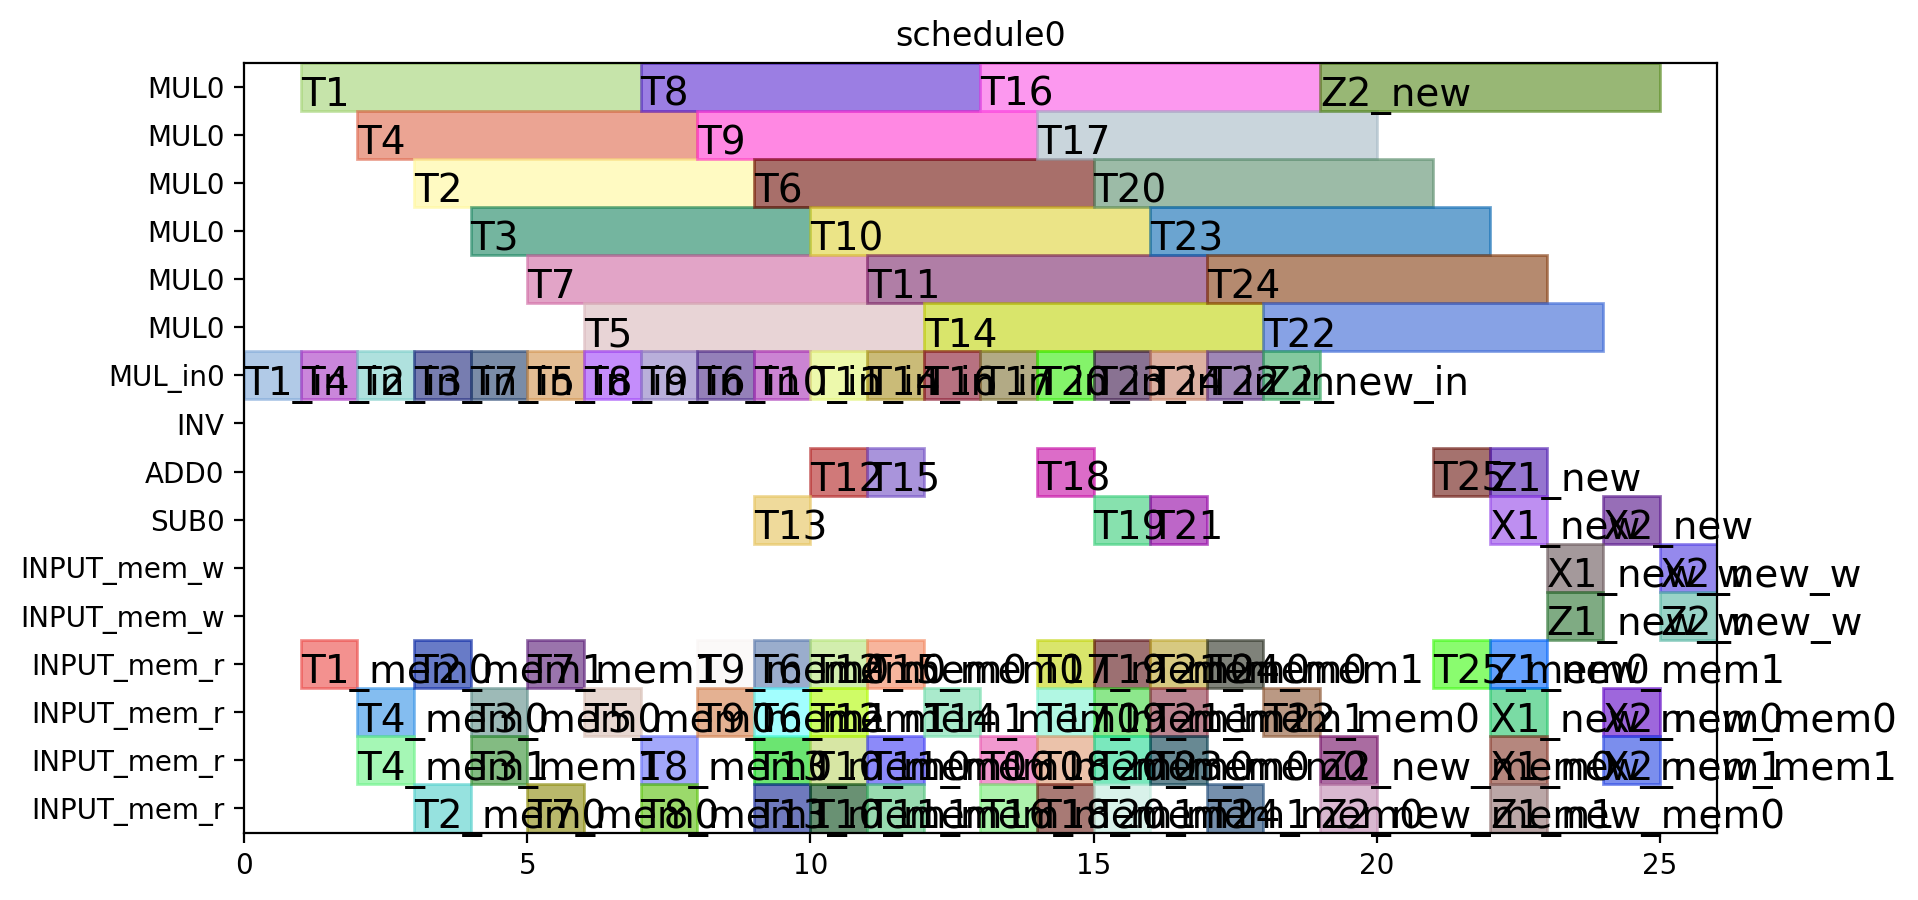
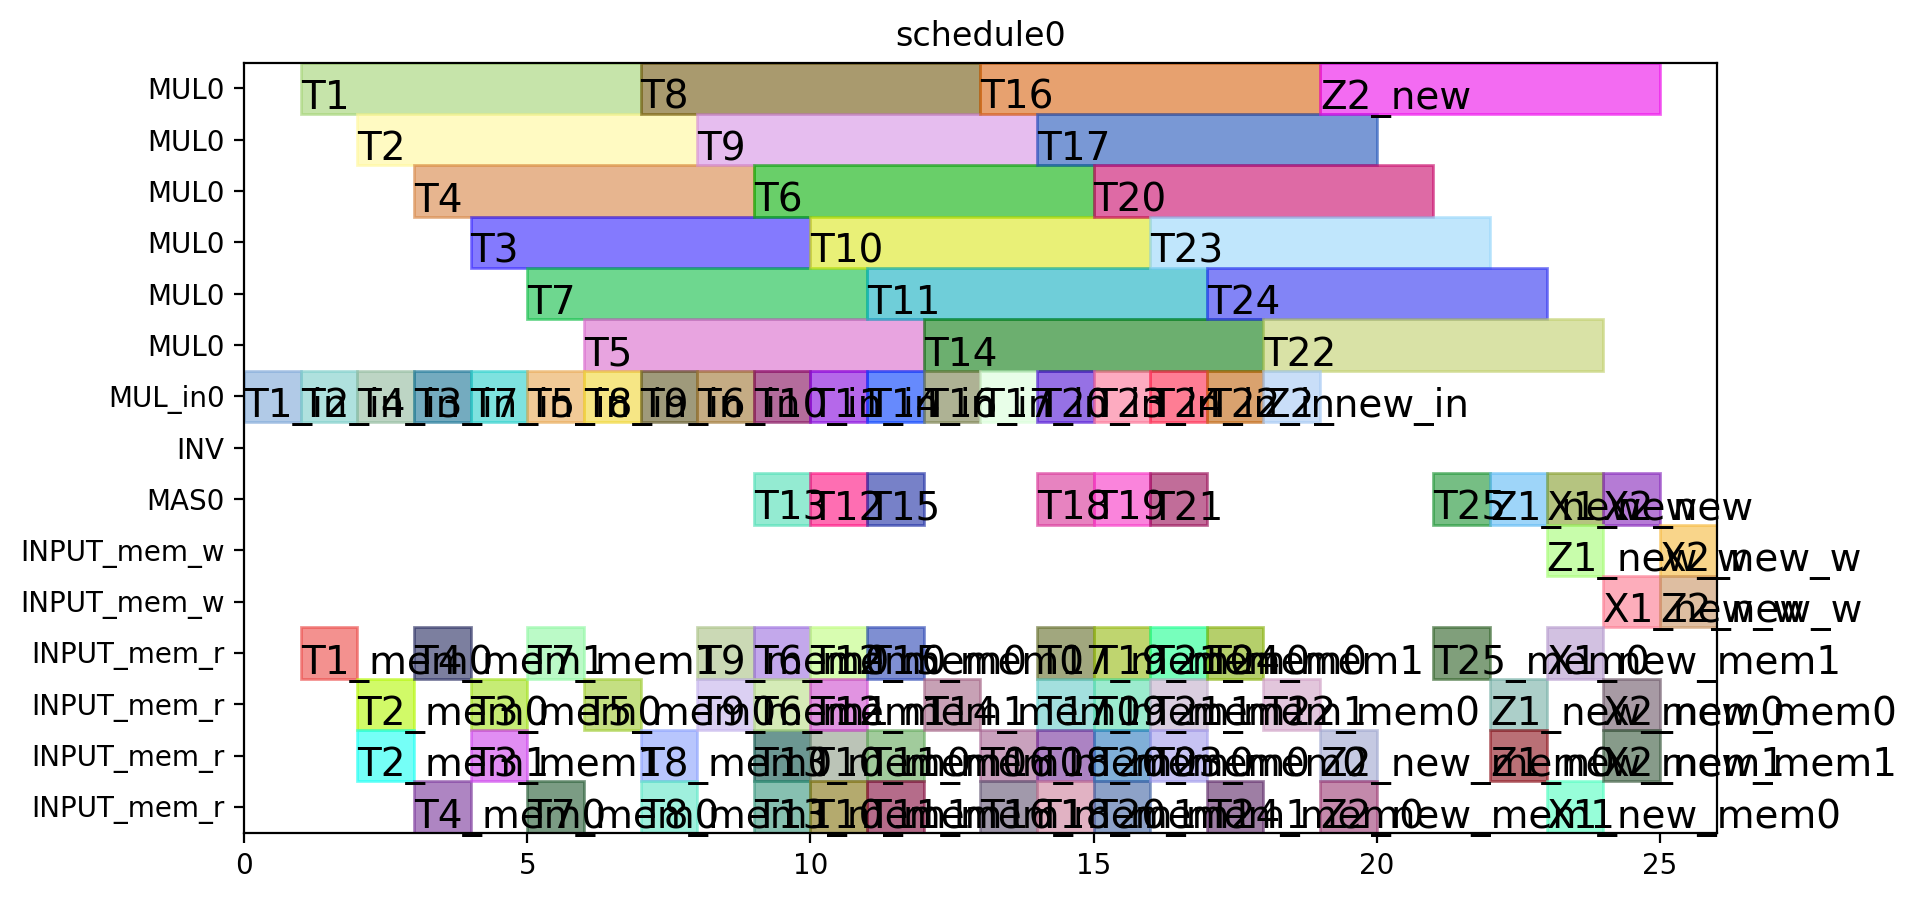
change ADD/SUB to MAS

diff --git a/python/write_sequence.py b/python/write_sequence.py
@@ -4,7 +4,7 @@ import sys
 import argparse
 import traceback
 import csv
-from inst_lib import ALURAMIndex, ALUInstruction, new_inst, set_init_inst, set_Fpinv_preprocess_inst, set_Fpinv_inst, set_yrecover2_inst, write_header, write_raminit_aluram, write_raminit_cmdaddr
+from inst_lib import solutionData, ALURAMIndex, ALUInstruction, new_inst, set_init_inst, set_Fpinv_preprocess_inst, set_Fpinv_inst, set_yrecover2_inst, write_header, write_raminit_aluram, write_raminit_cmdaddr
 
 
 def value2num(value):
@@ -15,14 +15,6 @@ def value2num(value):
     else:
         raise Exception("the length of value: {0} is {1}".format(value, len(value)))
     return num
-
-class solutionData:
-    def __init__(self, opr1, opr2, operator, start, end) -> None:
-        self.opr1 = opr1
-        self.opr2 = opr2
-        self.operator = operator
-        self.start = start
-        self.end = end
 
 
 # cが10clk目で出力 -> アドレス2に保存 -> 15clk目でオペランドとして最後に呼び出される場合，
@@ -99,7 +91,7 @@ class schedulingData:
             if "_mem" not in value_name:
                 formula = self.find_formula(value_name)
                 self.solution_data_list[value_name] = solutionData(
-                    opr1=formula[2], opr2=formula[3], operator=operator_name, start=start_time, end=end_time)
+                    opr1=formula[2], opr2=formula[3], operator=operator_name, operation=formula[1], start=start_time, end=end_time)
                 # print("{}, {}".format(value_name, start_time))
 
         self.operator_init_seq = [[] for i in range(self.seq_finish_time + 1)]
@@ -149,14 +141,14 @@ class schedulingData:
                 self.mem_addr_list.append(end_time)
             # print(self.mem_addr_list)
 
-    def set_operator_inst(self, data: solutionData, value_name):
+    def set_operator_inst(self, data: solutionData):
         for i in range(2):
             operand_name = data.opr1 if i == 0 else data.opr2
             time = data.start
             if operand_name in self.input:
                 # print(time, value_name, operand_name, self.const_addr_list[operand_name])
                 self.inst_list[time].set_operator_inst(
-                    operator=data.operator,
+                    operation=data.operation,
                     operand_index=i,
                     raddr=self.const_addr_list[operand_name],
                     mux=0,
@@ -166,17 +158,17 @@ class schedulingData:
             if time > operand_data.end:
                 ram_addr = self.mem_data_list[operand_name].addr
                 # print(time, value_name, operand_name, ram_addr)
-                self.inst_list[time].set_operator_inst(operator=data.operator, operand_index=i, raddr=ram_addr, mux=0, mask=self.is_ladder)
+                self.inst_list[time].set_operator_inst(operation=data.operation, operand_index=i, raddr=ram_addr, mux=0, mask=self.is_ladder)
                 continue
             operand_operator = operand_data.operator
             # print(time, value_name, operand_name, operand_operator)
             if "MUL" in operand_operator:
-                self.inst_list[time].set_operator_inst(operator=data.operator, operand_index=i, raddr=0, mux=1, mask=self.is_ladder)
-            elif "ADD" in operand_operator or "SUB" in operand_operator:
-                self.inst_list[time].set_operator_inst(operator=data.operator, operand_index=i, raddr=0, mux=2, mask=self.is_ladder)
+                self.inst_list[time].set_operator_inst(operation=data.operation, operand_index=i, raddr=0, mux=1, mask=self.is_ladder)
+            elif "MAS" in operand_operator:
+                self.inst_list[time].set_operator_inst(operation=data.operation, operand_index=i, raddr=0, mux=2, mask=self.is_ladder)
             elif "INV" in operand_operator:
                 # TODO: fix
-                self.inst_list[time].set_operator_inst(operator=data.operator, operand_index=i, raddr=0, mux=3, mask=self.is_ladder)
+                self.inst_list[time].set_operator_inst(operation=data.operation, operand_index=i, raddr=0, mux=3, mask=self.is_ladder)
             else:
                 raise Exception("invalid operator: {}".format(operand_operator))
 
@@ -185,7 +177,7 @@ class schedulingData:
         for value_name, data in self.solution_data_list.items():
             if value_name in self.input:
                 continue
-            self.set_operator_inst(data, value_name)
+            self.set_operator_inst(data)
 
     def ram_result_input(self):
         for out in self.output:

diff --git a/python/scheduling/ladderMul_mul1_6_add1_1/schedule0.py b/python/scheduling/ladderMul_mul1_6_add1_1/schedule0.py
@@ -9,8 +9,7 @@ def solve():
 	MUL = S.Resources('MUL', num=1, size=6)
 	MUL_in = S.Resources('MUL_in', num=1)
 	INV = S.Resource('INV')
-	ADD = S.Resources('ADD', num=1, periods=range(1, horizon))
-	SUB = S.Resources('SUB', num=1, periods=range(1, horizon))
+	MAS = S.Resources('MAS', num=1, periods=range(1, horizon))
 	INPUT_mem_w = S.Resource('INPUT_mem_w', size=2)
 	INPUT_mem_r = S.Resource('INPUT_mem_r', size=4)
 
@@ -168,7 +167,7 @@ def solve():
 	S += T11_mem1-1 <= T11
 
 	T12 = S.Task('T12', length=1, delay_cost=1)
-	T12 += alt(ADD)
+	T12 += alt(MAS)
 
 	T12_mem0 = S.Task('T12_mem0', length=1, delay_cost=1)
 	T12_mem0 += alt(INPUT_mem_r)
@@ -181,7 +180,7 @@ def solve():
 	S += T12_mem1-1 <= T12
 
 	T13 = S.Task('T13', length=1, delay_cost=1)
-	T13 += alt(SUB)
+	T13 += alt(MAS)
 
 	T13_mem0 = S.Task('T13_mem0', length=1, delay_cost=1)
 	T13_mem0 += alt(INPUT_mem_r)
@@ -194,7 +193,7 @@ def solve():
 	S += T13_mem1-1 <= T13
 
 	T15 = S.Task('T15', length=1, delay_cost=1)
-	T15 += alt(ADD)
+	T15 += alt(MAS)
 
 	T15_mem0 = S.Task('T15_mem0', length=1, delay_cost=1)
 	T15_mem0 += alt(INPUT_mem_r)
@@ -245,7 +244,7 @@ def solve():
 	S += T17_mem1-1 <= T17
 
 	T18 = S.Task('T18', length=1, delay_cost=1)
-	T18 += alt(ADD)
+	T18 += alt(MAS)
 
 	T18_mem0 = S.Task('T18_mem0', length=1, delay_cost=1)
 	T18_mem0 += alt(INPUT_mem_r)
@@ -258,7 +257,7 @@ def solve():
 	S += T18_mem1-1 <= T18
 
 	T19 = S.Task('T19', length=1, delay_cost=1)
-	T19 += alt(SUB)
+	T19 += alt(MAS)
 
 	T19_mem0 = S.Task('T19_mem0', length=1, delay_cost=1)
 	T19_mem0 += alt(INPUT_mem_r)
@@ -271,7 +270,7 @@ def solve():
 	S += T19_mem1-1 <= T19
 
 	T21 = S.Task('T21', length=1, delay_cost=1)
-	T21 += alt(SUB)
+	T21 += alt(MAS)
 
 	T21_mem0 = S.Task('T21_mem0', length=1, delay_cost=1)
 	T21_mem0 += alt(INPUT_mem_r)
@@ -338,7 +337,7 @@ def solve():
 	S += T23_mem0-1 <= T23
 
 	T25 = S.Task('T25', length=1, delay_cost=1)
-	T25 += alt(ADD)
+	T25 += alt(MAS)
 
 	T25_mem0 = S.Task('T25_mem0', length=1, delay_cost=1)
 	T25_mem0 += alt(INPUT_mem_r)
@@ -367,7 +366,7 @@ def solve():
 	S += Z2_new <= Z2_new_w
 
 	X2_new = S.Task('X2_new', length=1, delay_cost=1)
-	X2_new += alt(SUB)
+	X2_new += alt(MAS)
 
 	S += 0<X2_new
 
@@ -386,7 +385,7 @@ def solve():
 	S += X2_new <= X2_new_w
 
 	X1_new = S.Task('X1_new', length=1, delay_cost=1)
-	X1_new += alt(SUB)
+	X1_new += alt(MAS)
 
 	S += 0<X1_new
 
@@ -405,7 +404,7 @@ def solve():
 	S += X1_new <= X1_new_w
 
 	Z1_new = S.Task('Z1_new', length=1, delay_cost=1)
-	Z1_new += alt(ADD)
+	Z1_new += alt(MAS)
 
 	S += 0<Z1_new
 

diff --git a/python/inst_lib.py b/python/inst_lib.py
@@ -1,6 +1,15 @@
 from inst_template import init_insts, Fpinv_insts, Fpinv_preprocess_insts, yrecover2_insts
 
 
+class solutionData:
+    def __init__(self, opr1, opr2, operator, operation, start, end) -> None:
+        self.opr1 = opr1
+        self.opr2 = opr2
+        self.operator = operator
+        self.operation = operation
+        self.start = start
+        self.end = end
+
 class ALUInstruction:
     def __init__(self) -> None:
         self.REGF_raddra = 0
@@ -36,9 +45,9 @@ class ALUInstruction:
         self.DRAM_addrb = 0
         self.DRAM_web = 0
 
-    def set_operator_inst(self, operator, operand_index, raddr: int, mux: int, mask=False):
+    def set_operator_inst(self, operation, operand_index, raddr: int, mux: int, mask=False):
         is_masked_addr = mask and raddr < 4
-        if "MUL" in operator:
+        if "MUL" == operation:
             if operand_index == 0:
                 self.REGF_raddra = raddr
                 self.REGF_raddr_maska = 1 if is_masked_addr else 0
@@ -48,7 +57,7 @@ class ALUInstruction:
                 self.REGF_raddr_maskb = 1 if is_masked_addr else 0
                 self.muxb = mux
             self.MM_val = 1
-        elif "ADD" in operator or "SUB" in operator:
+        elif "ADD" == operation or "SUB" == operation:
             if operand_index == 0:
                 self.REGF_raddrc = raddr
                 self.muxc = mux
@@ -56,9 +65,9 @@ class ALUInstruction:
                 self.REGF_raddrd = raddr
                 self.muxd = mux
             self.MAS_val = 1
-            self.issub = 1 if "SUB" in operator else 0
+            self.issub = 1 if "SUB" == operation else 0
         else:
-            raise Exception("invalid operator: {}".format(operator))
+            raise Exception("invalid operator: {}".format(operation))
 
     def set_mem_write(self, operator, waddr: int, mask=False):
         is_masked_addr = mask and waddr < 4
@@ -66,7 +75,7 @@ class ALUInstruction:
             self.REGF_waddra = waddr
             self.REGF_waddr_maska = 1 if is_masked_addr else 0
             self.REGF_wea = 1
-        elif "ADD" in operator or "SUB" in operator:
+        elif "MAS" in operator:
             self.REGF_waddrb = waddr
             self.REGF_waddr_maskb = 1 if is_masked_addr else 0
             self.REGF_web = 1

diff --git a/python/scheduling/schedule.py b/python/scheduling/schedule.py
@@ -193,12 +193,7 @@ def make_pyschedule(
     f_write.write("\tMUL_in = S.Resources('MUL_in', num={0})\n".format(MULnum))
     f_write.write("\tINV = S.Resource('INV')\n")
     f_write.write(
-        "\tADD = S.Resources('ADD', num={0}, periods=range(1, horizon))\n".format(
-            ADDnum
-        )
-    )
-    f_write.write(
-        "\tSUB = S.Resources('SUB', num={0}, periods=range(1, horizon))\n".format(
+        "\tMAS = S.Resources('MAS', num={0}, periods=range(1, horizon))\n".format(
             ADDnum
         )
     )
@@ -215,7 +210,7 @@ def make_pyschedule(
     f_write.write("\tINPUT_mem_w = S.Resource('INPUT_mem_w', size=2)\n")
     f_write.write("\tINPUT_mem_r = S.Resource('INPUT_mem_r', size={})\n".format(read_num))
 
-    multi_resources = ["MUL", "MUL_in", "ADD"]
+    multi_resources = ["MUL", "MUL_in", "MAS"]
     # multi_resources = ["MUL", "MUL_in", "ADD", "MUL_mem", "ADD_mem"]
     single_resources = ["INV", "INPUT_mem_w", "INPUT_mem_r"]
 
@@ -250,16 +245,11 @@ def make_pyschedule(
             )
             f_write.write("\t" + line[0] + " += alt(MUL)\n")
             f_write.write("\tS += {0}>={0}_in\n\n".format(line[0]))
-        elif line[1] == "ADD":
+        elif line[1] == "ADD" or line[1] == "SUB":
             f_write.write(
                 "\t{0} = S.Task('{0}', length=1, delay_cost=1)\n".format(line[0])
             )
-            f_write.write("\t" + line[0] + " += alt(ADD)\n\n")
-        elif line[1] == "SUB":
-            f_write.write(
-                "\t{0} = S.Task('{0}', length=1, delay_cost=1)\n".format(line[0])
-            )
-            f_write.write("\t" + line[0] + " += alt(SUB)\n\n")
+            f_write.write("\t" + line[0] + " += alt(MAS)\n\n")
         elif line[1] == "INV":
             f_write.write(
                 "\t{0} = S.Task('{0}', length=1, delay_cost=1)\n".format(line[0])

diff --git a/python/scheduling/yrecover_mul1_6_add1_1/schedule0.py b/python/scheduling/yrecover_mul1_6_add1_1/schedule0.py
@@ -9,8 +9,7 @@ def solve():
 	MUL = S.Resources('MUL', num=1, size=6)
 	MUL_in = S.Resources('MUL_in', num=1)
 	INV = S.Resource('INV')
-	ADD = S.Resources('ADD', num=1, periods=range(1, horizon))
-	SUB = S.Resources('SUB', num=1, periods=range(1, horizon))
+	MAS = S.Resources('MAS', num=1, periods=range(1, horizon))
 	INPUT_mem_w = S.Resource('INPUT_mem_w', size=2)
 	INPUT_mem_r = S.Resource('INPUT_mem_r', size=4)
 
@@ -116,7 +115,7 @@ def solve():
 	S += r13_mem1-1 <= r13
 
 	r2 = S.Task('r2', length=1, delay_cost=1)
-	r2 += alt(ADD)
+	r2 += alt(MAS)
 
 	r2_mem0 = S.Task('r2_mem0', length=1, delay_cost=1)
 	r2_mem0 += alt(INPUT_mem_r)
@@ -124,7 +123,7 @@ def solve():
 	S += r2_mem0-1 <= r2
 
 	r7 = S.Task('r7', length=1, delay_cost=1)
-	r7 += alt(ADD)
+	r7 += alt(MAS)
 
 	r7_mem0 = S.Task('r7_mem0', length=1, delay_cost=1)
 	r7_mem0 += alt(INPUT_mem_r)
@@ -137,7 +136,7 @@ def solve():
 	S += r7_mem1-1 <= r7
 
 	r8 = S.Task('r8', length=1, delay_cost=1)
-	r8 += alt(ADD)
+	r8 += alt(MAS)
 
 	r8_mem0 = S.Task('r8_mem0', length=1, delay_cost=1)
 	r8_mem0 += INPUT_mem_r
@@ -149,7 +148,7 @@ def solve():
 	S += r8_mem1-1 <= r8
 
 	r10 = S.Task('r10', length=1, delay_cost=1)
-	r10 += alt(SUB)
+	r10 += alt(MAS)
 
 	r10_mem0 = S.Task('r10_mem0', length=1, delay_cost=1)
 	r10_mem0 += INPUT_mem_r
@@ -234,7 +233,7 @@ def solve():
 	S += r16_mem1-1 <= r16
 
 	r17 = S.Task('r17', length=1, delay_cost=1)
-	r17 += alt(ADD)
+	r17 += alt(MAS)
 
 	r17_mem0 = S.Task('r17_mem0', length=1, delay_cost=1)
 	r17_mem0 += alt(INPUT_mem_r)
@@ -291,7 +290,7 @@ def solve():
 	S += Z1_new <= Z1_new_w
 
 	PY_new = S.Task('PY_new', length=1, delay_cost=1)
-	PY_new += alt(SUB)
+	PY_new += alt(MAS)
 
 	S += 0<PY_new
 
